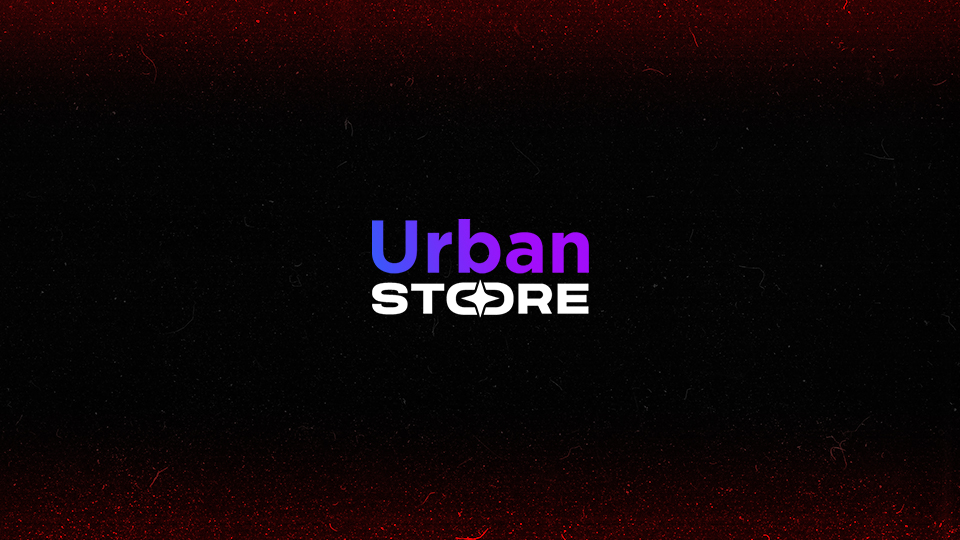
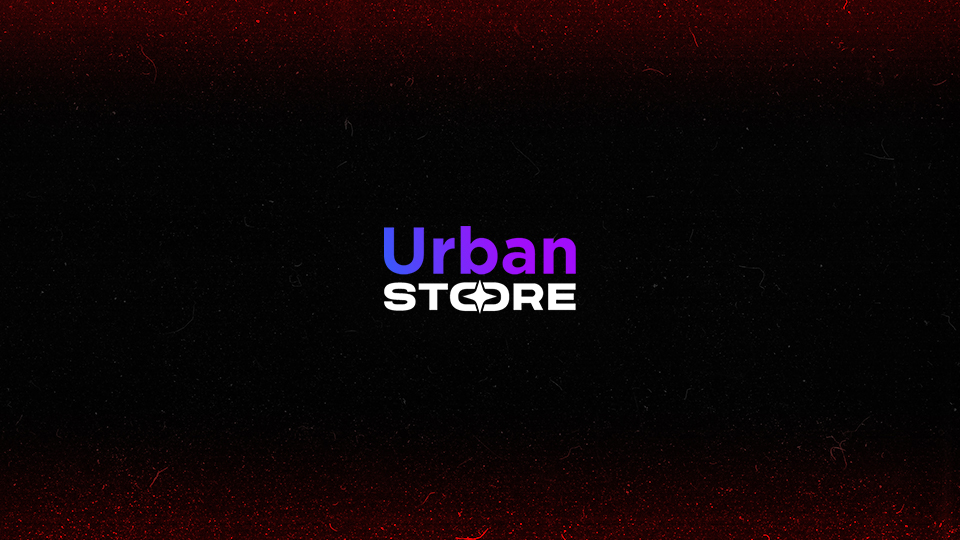
adicionando background urban store

Changed region(s): [[0.375, 0.3852, 0.625, 0.5926]]

diff --git a/src/components/projetos-card/projetosCard.js b/src/components/projetos-card/projetosCard.js
@@ -3,7 +3,7 @@ import './projetosCard.css'
 
     export const projetosDev = [
 
-        {id: 1, nome: 'Urban Store', tecnologias: 'CSS, JavaScript e React.js', image: '', github: 'https://github.com/urbanykv/urban-store', demo: 'https://urban-store-coral.vercel.app/'},
+        {id: 1, nome: 'Urban Store', tecnologias: 'CSS, JavaScript e React.js', image: 'assets/img/urban-store-background.jpg', github: 'https://github.com/urbanykv/urban-store', demo: 'https://urban-store-coral.vercel.app/'},
 
         {id: 2, nome: 'Detone o Ralph', tecnologias: 'HTML, CSS e JavaScript', image: 'assets/img/ralph-background.jpg', github: 'https://github.com/urbanykv/jogo-detona-ralph', demo: 'https://jogo-detona-ralph-one.vercel.app/'},
 
